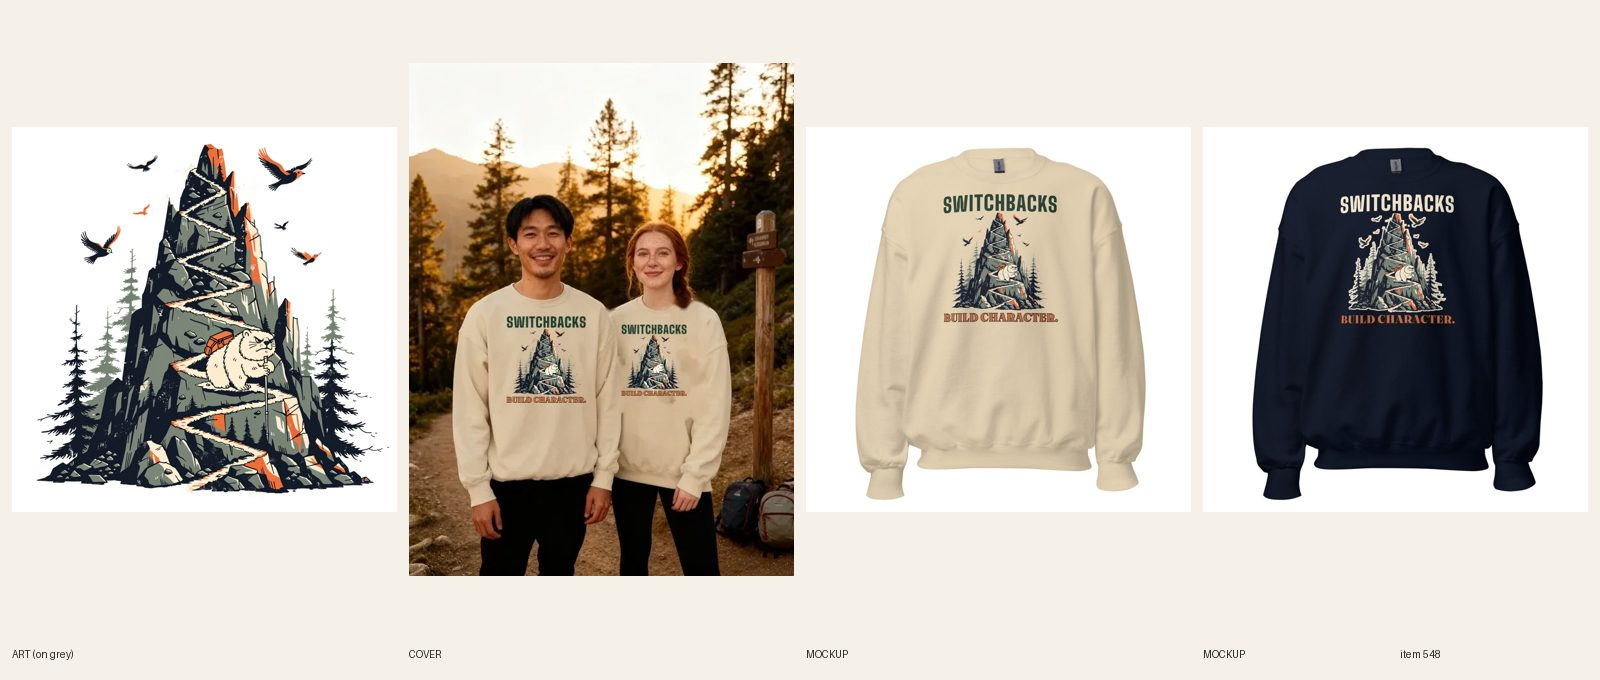
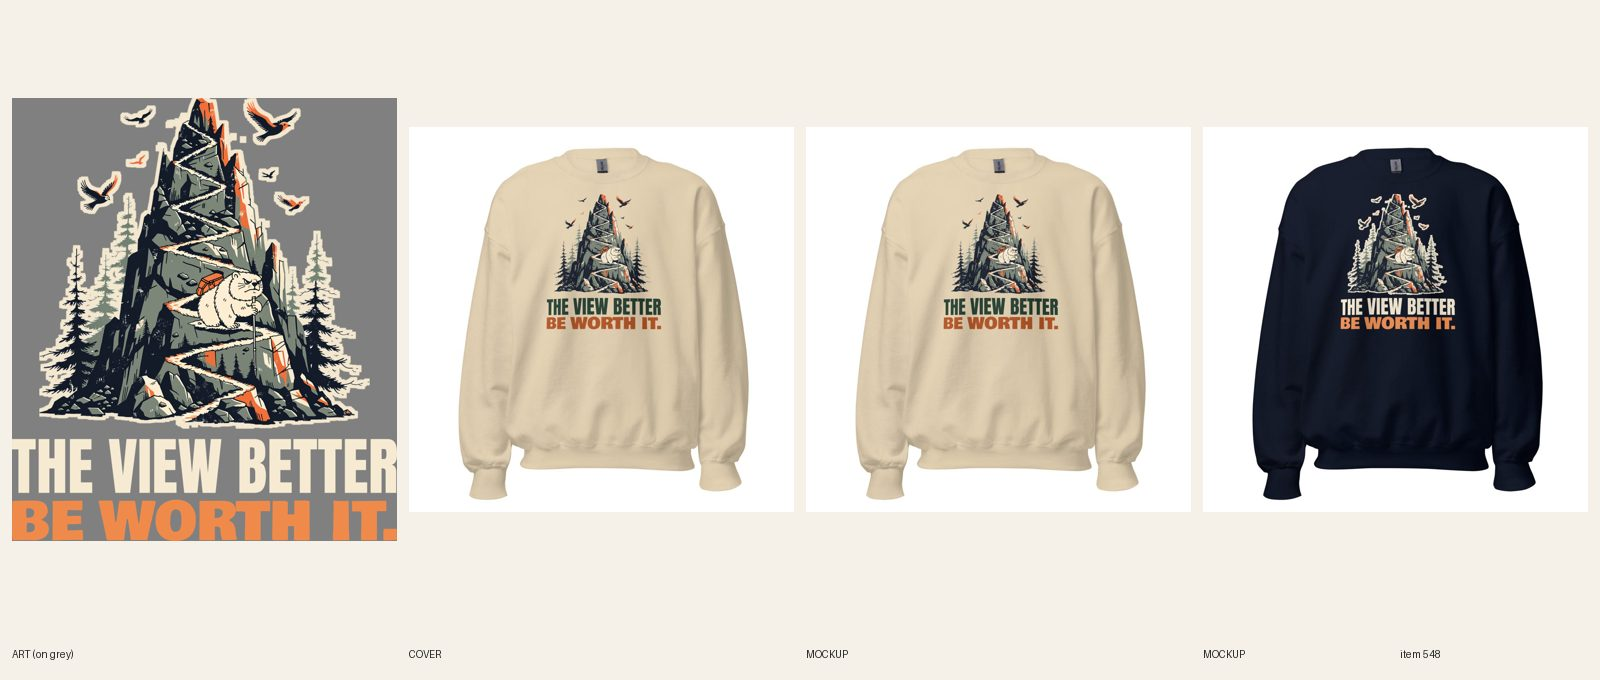
[B] review 548 National Park crewneck (type redo)
Claude-Session: https://claude.ai/code/session_01XGDsaPjq9bcNAWBVQDnCkS

Changed region(s): [[0.0, 0.0926, 0.5, 0.8647], [0.8125, 0.2779, 0.9062, 0.4941], [0.5938, 0.2779, 0.6875, 0.4941]]

diff --git a/docs/pipeline/548-national-park-crew-switchbacks-build-character.md b/docs/pipeline/548-national-park-crew-switchbacks-build-character.md
@@ -1,4 +1,4 @@
-status: BUILDING [B] 2026-10-19 19:57
+status: REVIEW
 lane: B
 type: new
 id: 548
@@ -34,3 +34,4 @@ shopify: gid://shopify/Product/15364713054512
 - 2026-10-18 07:22 UTC director: approved from docs/review/548.jpg; ACTIVE + Online Store + Headless + Google & YouTube. audit --handle PASS (0 warn). LIVE.
 - 2026-10-18 17:22 UTC director: QUALITY RESET grade C (new line + type), REDO. The product stays ACTIVE (same handle, URL, title keyword). 1. Line (R3.12, quality-reset 'Lines'): "SWITCHBACKS / BUILD CHARACTER.": Step-back line (as 624): describes the hike, mild. Write 5 candidates, keep the one a stranger laughs at in 3 seconds without backstory; kill lines that only describe the picture; if none of the 5 is funny, PARK it. 2. Quality reset type bar (docs/backlog/quality-reset.md, 'The new bar'): headline at least 90% of the art width, heavy, colors pulled from the art; second line at least 45% of the headline's height, never a thin script on a dark or mid garment; use the lettering as a shape (arch, stacked lockup, words breaking into the art), not a plain bar above and a script line below; no font used on more than 1 in 6 of the last 30 designs. 3. Keep the art if it carries the new line, else one new illustration (R4/R5). New print means a new cover per R6.10, copy line one rewritten for the new joke (R8.3), and a fresh review sheet (R7.7). While quality-reset.md says PAUSED, only lane A builds, and only the samples step 2 names.
 - 2026-10-19 15:55 UTC director: SHORTCUT for this REDO: its source design #624 went LIVE today with the line THE VIEW BETTER / BE WORTH IT., approved by Sam (quality-reset sample). Do not write new lines: port the #624 print (Sandstone file 1089029156, Storm Blue file 1089029168) to this blank. Set your own width for this garment (R5.3.8 twins: crewneck FW 1650, hoodie FW 1500+, top of print about 3 in below the collar), make a light-ink file only if a dark garment color is offered (R5.3.8), relink every variant and log the count (R7.7), new fronts per color, copy line one and FAQ updated to the new line, plain product shot cover (add the handle to src/data/retired-covers.json; no new cover, RESUME terms), fresh docs/review/<id>.jpg. fal $0. Take these before other REDOs: they are the fastest way to match Sam-approved designs across garments.
+- 2026-10-19 20:12 UTC builder [B]: REDO shortcut done: ported #624's approved print (Sand dark-ink file 1089029156, Navy cream-ink file 1089029168, no new art, no light file needed beyond these), FW 1650 TOP 75 (print 1900 px tall, fits crewneck area). Relinked 12/12 (6 Sand, 6 Navy, back logo kept, R7.7). Front mockups Sand + Navy replaced in place (fileUpdate; back unchanged); read at 400 px, both lines legible. Story line one rewritten for THE VIEW BETTER BE WORTH IT. (opener names the keyword, no superlative), ink sentence written from the mockups (dark pine/rust on Sand, cream/orange on Navy), FAQ names updated. Cover: plain product shot (already in retired-covers). Audit --handle PASS 0 warn, variant-photo-audit clean, astro build OK. Sheet docs/review/548.jpg. fal $0.

diff --git a/docs/intake-log.md b/docs/intake-log.md
@@ -1,4 +1,4 @@
-RUNNING lane B since 2026-10-19 19:57 UTC
+2026-10-19 20:12 UTC — [B] Builder run: redid #548 National Park crewneck (ported #624 THE VIEW BETTER / BE WORTH IT. print, FW 1650, 12/12 relinked, 2 fronts replaced in place, copy updated, plain product shot). REVIEW. fal $0. 1 redo per run cap reached. Lock released.
 RUNNING lane C since 2026-10-19 19:52 UTC
 2026-10-19 19:52 UTC — [B] Builder run: redid #522 Gigi crewneck (type only: Bevan hot-pink GIGI full width + Anton navy BECAUSE GRANDMA / SOUNDED OLD., same art, FW 1650, file 1089786616, 12/12 resynced, 2 fronts replaced in place, copy updated, plain product shot). REVIEW. fal $0. Lock released.
 2026-10-19 19:44 UTC — [H] Helper run: Telegram inbox empty (getUpdates returned 0 updates; no pause, resume or TikTok links; nothing to consume). Audit (604 products): 0 errors, 30 warnings left alone (polish); no meta, SEO, collection or price errors to fix; announcement bar unchanged. Category check: 0 products without a category (Shopify query empty, no mutation). Site freshness: unisex-christmas-we-said-no-gifts-graphic-tee, mens-firefighter-yes-one-cat-once-hoodie, womens-nana-mom-said-no-thats-cute-crewneck-sweatshirt all 200. Stuck work: none (#522 BUILDING since 19:40 under 3 hours; lane B lock 19:40 and lane E lock 19:15 both under 2 hours). Daily summary not due (sent 16:05). Lock released.
